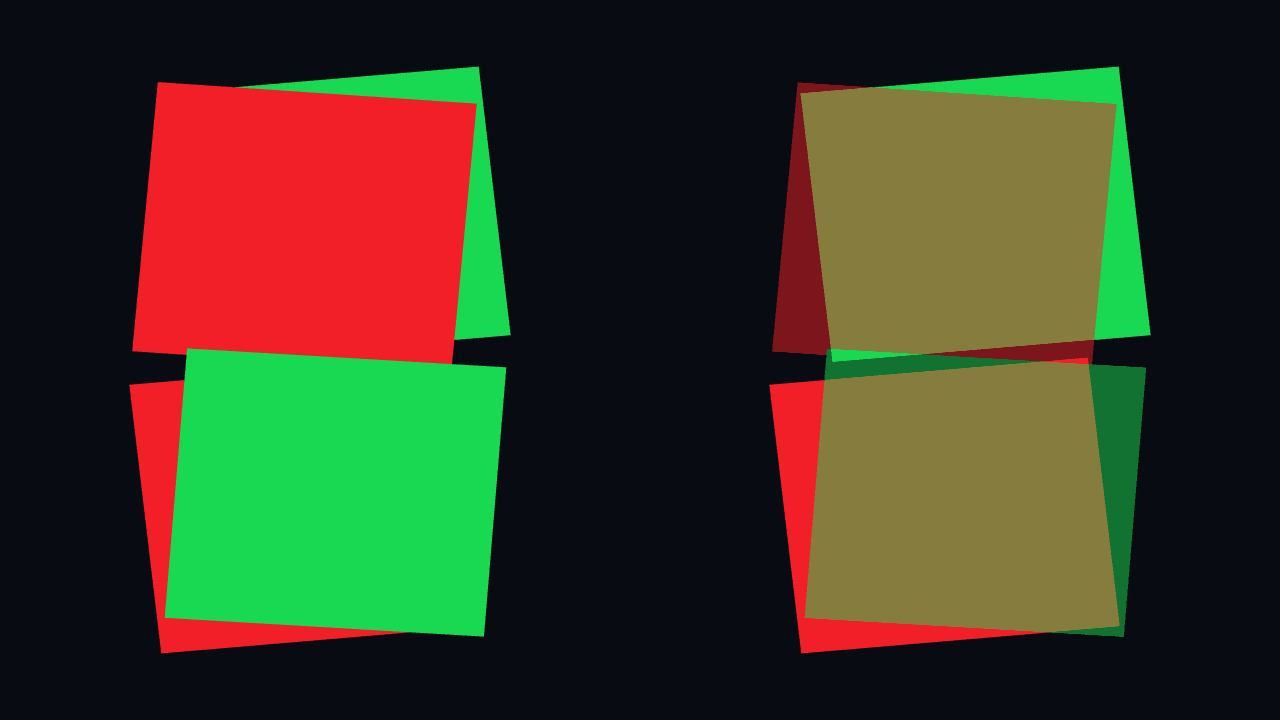
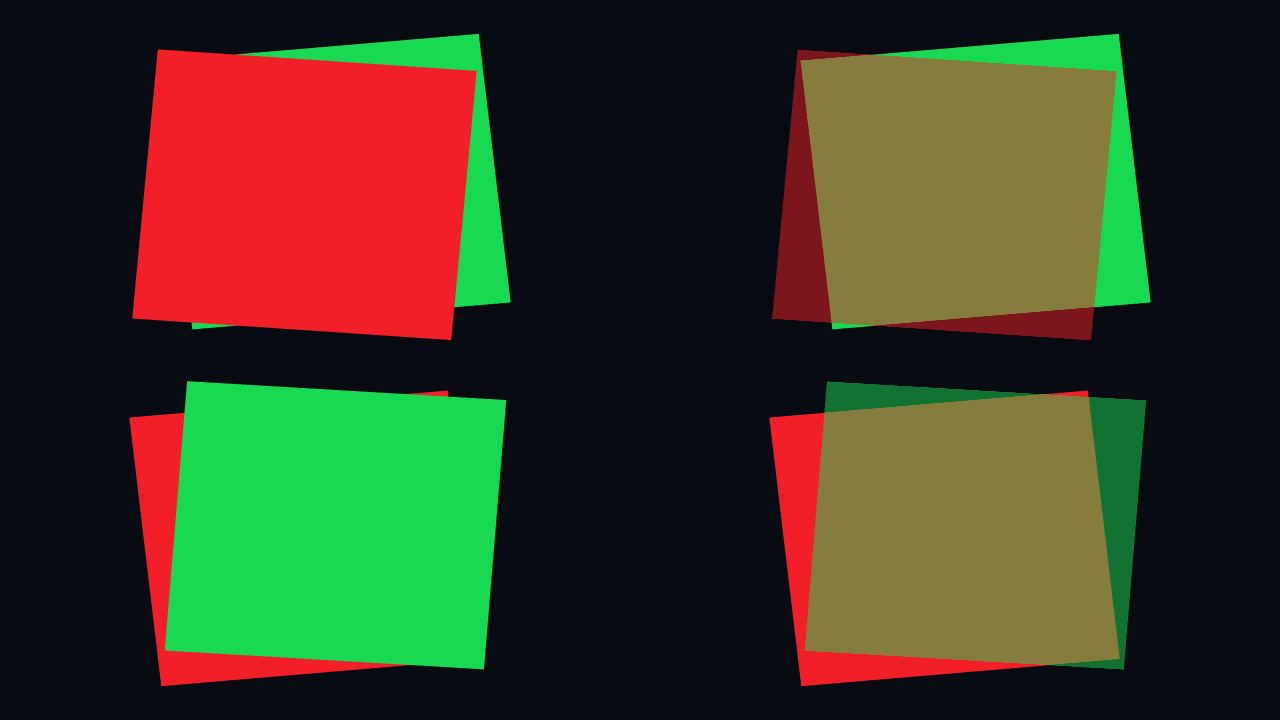
More fixes

Changed region(s): [[0.5938, 0.0306, 0.9062, 0.9778], [0.0938, 0.0306, 0.4062, 0.9778]]

diff --git a/tests/shared/compare-core.ts b/tests/shared/compare-core.ts
@@ -48,13 +48,6 @@ export interface RegionResult extends CompareResult {
     regionPixels: number;
 }
 
-export interface CompareRect {
-    readonly x: number;
-    readonly y: number;
-    readonly width: number;
-    readonly height: number;
-}
-
 /** Parse a PNG file into {width, height, data: Uint8Array (RGBA)} */
 function loadPng(path: string): { width: number; height: number; data: Uint8Array } {
     const buf = fs.readFileSync(path);
@@ -106,68 +99,6 @@ export function compareImages(actualPath: string, referencePath: string): Compar
         mad: sumDiff / total,
         maxDiff,
     };
-}
-
-/** Compare one or more rectangular image regions. Throws when clipped regions overlap. */
-export function compareImageRects(actualPath: string, referencePath: string, rects: readonly CompareRect[]): CompareResult {
-    const actual = loadPng(actualPath);
-    const ref = loadPng(referencePath);
-    const w = Math.min(actual.width, ref.width);
-    const h = Math.min(actual.height, ref.height);
-
-    const clippedRects = rects.map((rect, index) => {
-        const clipped = {
-            x0: Math.max(0, Math.floor(rect.x)),
-            y0: Math.max(0, Math.floor(rect.y)),
-            x1: Math.min(w, Math.ceil(rect.x + rect.width)),
-            y1: Math.min(h, Math.ceil(rect.y + rect.height)),
-        };
-        if (clipped.x0 >= clipped.x1 || clipped.y0 >= clipped.y1) {
-            throw new Error(`compareImageRects: rectangle ${index} selects no pixels`);
-        }
-        return clipped;
-    });
-    for (let left = 0; left < clippedRects.length; left++) {
-        for (let right = left + 1; right < clippedRects.length; right++) {
-            const a = clippedRects[left]!;
-            const b = clippedRects[right]!;
-            if (Math.max(a.x0, b.x0) < Math.min(a.x1, b.x1) && Math.max(a.y0, b.y0) < Math.min(a.y1, b.y1)) {
-                throw new Error(`compareImageRects: rectangles ${left} and ${right} overlap`);
-            }
-        }
-    }
-
-    let exactMatch = 0;
-    let within1 = 0;
-    let within3 = 0;
-    let within5 = 0;
-    let sumDiff = 0;
-    let maxDiff = 0;
-    let totalPixels = 0;
-
-    for (const rect of clippedRects) {
-        for (let y = rect.y0; y < rect.y1; y++) {
-            for (let x = rect.x0; x < rect.x1; x++) {
-                const ai = (y * actual.width + x) * 4;
-                const ri = (y * ref.width + x) * 4;
-                let pixMax = 0;
-                let pixSum = 0;
-                for (let c = 0; c < 3; c++) {
-                    const d = Math.abs(actual.data[ai + c]! - ref.data[ri + c]!);
-                    pixSum += d;
-                    pixMax = Math.max(pixMax, d);
-                }
-                sumDiff += pixSum / 3;
-                maxDiff = Math.max(maxDiff, pixMax);
-                if (pixMax === 0) exactMatch++;
-                if (pixMax <= 1) within1++;
-                if (pixMax <= 3) within3++;
-                if (pixMax <= 5) within5++;
-                totalPixels++;
-            }
-        }
-    }
-    return { totalPixels, exactMatch, within1, within3, within5, mad: sumDiff / totalPixels, maxDiff };
 }
 
 /**

diff --git a/tests/gl/parity/gl-parity.spec.ts b/tests/gl/parity/gl-parity.spec.ts
@@ -17,17 +17,10 @@
  */
 import { test, expect } from "../../shared/reuse-fixtures";
 import * as path from "path";
-import { attachCompareArtifacts, captureGolden, compareImageRects, compareImages, getSceneConfig, loadSceneConfigAll } from "./compare-utils";
+import { attachCompareArtifacts, captureGolden, compareImages, getSceneConfig, loadSceneConfigAll } from "./compare-utils";
 
 /** Fixed freeze time used for every GL parity capture (lite + reference). */
 const SEEK_TIME = 1.5;
-const A2C_MAX_INTERIOR_CHANNEL_DIFF = 1;
-const A2C_STABLE_INTERIOR_RECTS = [
-    { x: 272, y: 172, width: 96, height: 96 },
-    { x: 272, y: 452, width: 96, height: 96 },
-    { x: 912, y: 172, width: 96, height: 96 },
-    { x: 912, y: 452, width: 96, height: 96 },
-] as const;
 
 for (const entry of loadSceneConfigAll()) {
     const sceneConfig = getSceneConfig(entry.id);
@@ -56,18 +49,13 @@ for (const entry of loadSceneConfigAll()) {
             await page.locator("canvas").screenshot({ path: screenshotPath });
 
             const full = compareImages(screenshotPath, goldenRef);
-            const compared = entry.id === 17 ? compareImageRects(screenshotPath, goldenRef, A2C_STABLE_INTERIOR_RECTS) : full;
             await attachCompareArtifacts(testInfo, screenshotPath, goldenRef, referenceDir);
-            const within1Pct = ((compared.within1 / compared.totalPixels) * 100).toFixed(2);
+            const within1Pct = ((full.within1 / full.totalPixels) * 100).toFixed(2);
             console.log(
-                `GL Scene ${entry.id} (${sceneConfig.slug}) — ${entry.id === 17 ? `full MAD=${full.mad.toFixed(4)} (informational) | stable interior MAD=${compared.mad.toFixed(4)} (informational) | maxDiff=${compared.maxDiff} (max ${A2C_MAX_INTERIOR_CHANNEL_DIFF})` : `MAD=${compared.mad.toFixed(4)} (max ${sceneConfig.maxMad}) | maxDiff=${compared.maxDiff}`} | within1=${within1Pct}% | ${compared.totalPixels}px`
+                `GL Scene ${entry.id} (${sceneConfig.slug}) — MAD=${full.mad.toFixed(4)} (max ${sceneConfig.maxMad}) | maxDiff=${full.maxDiff} | within1=${within1Pct}% | ${full.totalPixels}px`
             );
 
-            if (entry.id === 17) {
-                expect(compared.maxDiff, `Stable interior channel difference should be ≤ ${A2C_MAX_INTERIOR_CHANNEL_DIFF}`).toBeLessThanOrEqual(A2C_MAX_INTERIOR_CHANNEL_DIFF);
-            } else {
-                expect(compared.mad, `Full image MAD should be ≤ ${sceneConfig.maxMad}`).toBeLessThanOrEqual(sceneConfig.maxMad);
-            }
+            expect(full.mad, `Full image MAD should be ≤ ${sceneConfig.maxMad}`).toBeLessThanOrEqual(sceneConfig.maxMad);
         });
     });
 }

diff --git a/tests/lite/parity/scenes/scene268-alpha-to-coverage.spec.ts b/tests/lite/parity/scenes/scene268-alpha-to-coverage.spec.ts
@@ -1,17 +1,10 @@
 import { test, expect } from "../parity-fixtures";
 import * as path from "path";
-import { attachCompareArtifacts, captureGolden, compareImageRects, compareImages, getSceneConfig } from "../compare-utils";
+import { attachCompareArtifacts, captureGolden, compareImages, getSceneConfig } from "../compare-utils";
 
 const sceneConfig = getSceneConfig(268);
 const REFERENCE_DIR = path.resolve(__dirname, "../../../../reference/lite/scene268-alpha-to-coverage");
 const GOLDEN_REF = path.join(REFERENCE_DIR, "babylon-ref-golden.png");
-const MAX_INTERIOR_CHANNEL_DIFF = 1;
-const STABLE_INTERIOR_RECTS = [
-    { x: 272, y: 172, width: 96, height: 96 },
-    { x: 272, y: 452, width: 96, height: 96 },
-    { x: 912, y: 172, width: 96, height: 96 },
-    { x: 912, y: 452, width: 96, height: 96 },
-] as const;
 
 test.skip(!!sceneConfig.skipParity, "Scene 268 skipped via skipParity in scene-config.json");
 
@@ -28,10 +21,7 @@ test("Scene 268 — alpha-to-coverage matches Babylon.js WebGPU", async ({ page 
     await page.locator("canvas").screenshot({ path: screenshotPath });
 
     const full = compareImages(screenshotPath, GOLDEN_REF);
-    const interior = compareImageRects(screenshotPath, GOLDEN_REF, STABLE_INTERIOR_RECTS);
     await attachCompareArtifacts(testInfo, screenshotPath, GOLDEN_REF, REFERENCE_DIR);
-    console.log(
-        `Alpha-to-coverage full image MAD: ${full.mad.toFixed(3)} (informational); stable interior MAD: ${interior.mad.toFixed(3)} (informational); maxDiff: ${interior.maxDiff} (limit ${MAX_INTERIOR_CHANNEL_DIFF})`
-    );
-    expect(interior.maxDiff, `Stable interior channel difference should be <= ${MAX_INTERIOR_CHANNEL_DIFF}`).toBeLessThanOrEqual(MAX_INTERIOR_CHANNEL_DIFF);
+    console.log(`Alpha-to-coverage full image MAD: ${full.mad.toFixed(3)} (limit ${sceneConfig.maxMad})`);
+    expect(full.mad, `Full image MAD should be <= ${sceneConfig.maxMad}`).toBeLessThanOrEqual(sceneConfig.maxMad);
 });

diff --git a/lab/lite/src/lite/scene268.ts b/lab/lite/src/lite/scene268.ts
@@ -29,9 +29,13 @@ const FRAGMENT_SOURCE = `@fragment fn mainFragment()->@location(0) vec4<f32>{ret
 
 const RED: readonly [number, number, number] = [0.95, 0.12, 0.16];
 const GREEN: readonly [number, number, number] = [0.1, 0.85, 0.32];
+// Rows sit far enough apart that no card ever overlaps a card from the other row. Cross-row overlap
+// would land on identical depth values, and a depth tie resolves differently under reverse-Z
+// "greater-equal" (WebGPU) than under strict LESS (WebGL2) — diverging the backends for reasons that
+// have nothing to do with alpha-to-coverage.
 const ROWS = [
-    { y: 0.85, redInFront: true, redRotation: -0.08, greenRotation: 0.1 },
-    { y: -0.85, redInFront: false, redRotation: 0.1, greenRotation: -0.07 },
+    { y: 1.05, redInFront: true, redRotation: -0.08, greenRotation: 0.1 },
+    { y: -1.05, redInFront: false, redRotation: 0.1, greenRotation: -0.07 },
 ] as const;
 
 function createCardMaterial(center: readonly [number, number], rotation: number, depth: number, color: readonly [number, number, number], opacity: number): ShaderMaterial {

diff --git a/lab/gl/src/scene17.ts b/lab/gl/src/scene17.ts
@@ -29,9 +29,13 @@ const QUAD = new Float32Array([-0.5, -0.5, 0.5, -0.5, 0.5, 0.5, -0.5, 0.5]);
 const INDICES = new Uint16Array([0, 1, 2, 0, 2, 3]);
 const RED: readonly [number, number, number] = [0.95, 0.12, 0.16];
 const GREEN: readonly [number, number, number] = [0.1, 0.85, 0.32];
+// Rows sit far enough apart that no card ever overlaps a card from the other row. Cross-row overlap
+// would land on identical depth values, and a depth tie resolves differently under reverse-Z
+// "greater-equal" (WebGPU) than under strict LESS (WebGL2) — diverging the backends for reasons that
+// have nothing to do with alpha-to-coverage.
 const ROWS = [
-    { y: 0.85, redInFront: true, redRotation: -0.08, greenRotation: 0.1 },
-    { y: -0.85, redInFront: false, redRotation: 0.1, greenRotation: -0.07 },
+    { y: 1.05, redInFront: true, redRotation: -0.08, greenRotation: 0.1 },
+    { y: -1.05, redInFront: false, redRotation: 0.1, greenRotation: -0.07 },
 ] as const;
 
 const VERTEX_SHADER = `#version 300 es

diff --git a/tests/gl/parity/compare-utils.ts b/tests/gl/parity/compare-utils.ts
@@ -10,8 +10,8 @@ import type { Browser } from "@playwright/test";
 import { captureGolden as captureGoldenCore, shouldSkipParity, type SceneConfig, type CaptureGoldenOptions } from "../../shared/compare-core";
 
 // Re-export the experience-agnostic comparison surface unchanged.
-export { compareImages, compareImageRects, compareRegion, generateDiffMap, attachCompareArtifacts, shouldSkipParity, waitForCanvasReady } from "../../shared/compare-core";
-export type { SceneConfig, CompareRect, CompareResult, RegionResult, CaptureGoldenOptions } from "../../shared/compare-core";
+export { compareImages, compareRegion, generateDiffMap, attachCompareArtifacts, shouldSkipParity, waitForCanvasReady } from "../../shared/compare-core";
+export type { SceneConfig, CompareResult, RegionResult, CaptureGoldenOptions } from "../../shared/compare-core";
 
 let _sceneConfigCache: SceneConfig[] | null = null;
 

diff --git a/tests/lite/parity/compare-utils.ts b/tests/lite/parity/compare-utils.ts
@@ -11,8 +11,8 @@ import type { Browser } from "@playwright/test";
 import { captureGolden as captureGoldenCore, shouldSkipParity, type SceneConfig, type CaptureGoldenOptions } from "../../shared/compare-core";
 
 // Re-export the experience-agnostic comparison surface unchanged.
-export { compareImages, compareImageRects, compareRegion, generateDiffMap, attachCompareArtifacts, shouldSkipParity, waitForCanvasReady } from "../../shared/compare-core";
-export type { SceneConfig, CompareRect, CompareResult, RegionResult, CaptureGoldenOptions } from "../../shared/compare-core";
+export { compareImages, compareRegion, generateDiffMap, attachCompareArtifacts, shouldSkipParity, waitForCanvasReady } from "../../shared/compare-core";
+export type { SceneConfig, CompareResult, RegionResult, CaptureGoldenOptions } from "../../shared/compare-core";
 
 let _sceneConfigCache: SceneConfig[] | null = null;
 

diff --git a/lab/gl/src/babylon-ref-scene17.ts b/lab/gl/src/babylon-ref-scene17.ts
@@ -8,9 +8,11 @@ const QUAD = new Float32Array([-0.5, -0.5, 0.5, -0.5, 0.5, 0.5, -0.5, 0.5]);
 const INDICES = new Uint16Array([0, 1, 2, 0, 2, 3]);
 const RED: readonly [number, number, number] = [0.95, 0.12, 0.16];
 const GREEN: readonly [number, number, number] = [0.1, 0.85, 0.32];
+// Must match lab/gl/src/scene17.ts: rows are separated so no cross-row card overlap exists, because a
+// depth tie resolves differently under reverse-Z "greater-equal" (WebGPU) than under strict LESS.
 const ROWS = [
-    { y: 0.85, redInFront: true, redRotation: -0.08, greenRotation: 0.1 },
-    { y: -0.85, redInFront: false, redRotation: 0.1, greenRotation: -0.07 },
+    { y: 1.05, redInFront: true, redRotation: -0.08, greenRotation: 0.1 },
+    { y: -1.05, redInFront: false, redRotation: 0.1, greenRotation: -0.07 },
 ] as const;
 
 const VERTEX_SHADER = `

diff --git a/lab/lite/src/bjs/scene268.ts b/lab/lite/src/bjs/scene268.ts
@@ -49,9 +49,11 @@ void main(void) {
 
 const RED = new Color3(0.95, 0.12, 0.16);
 const GREEN = new Color3(0.1, 0.85, 0.32);
+// Must match lab/lite/src/lite/scene268.ts: rows are separated so no cross-row card overlap exists,
+// because a depth tie resolves differently under reverse-Z "greater-equal" than under strict LESS.
 const ROWS = [
-    { y: 0.85, redInFront: true, redRotation: -0.08, greenRotation: 0.1 },
-    { y: -0.85, redInFront: false, redRotation: 0.1, greenRotation: -0.07 },
+    { y: 1.05, redInFront: true, redRotation: -0.08, greenRotation: 0.1 },
+    { y: -1.05, redInFront: false, redRotation: 0.1, greenRotation: -0.07 },
 ] as const;
 
 function createCardMaterial(scene: Scene, center: Vector2, rotation: number, depth: number, color: Color3, opacity: number): ShaderMaterial {

diff --git a/docs/lite/architecture/51-alpha-to-coverage.md b/docs/lite/architecture/51-alpha-to-coverage.md
@@ -139,7 +139,7 @@ The per-owner API is intentional: WebGPU alpha-to-coverage is pipeline state, wh
 4. Focused pipeline tests verify depth-writing text/Sprite2D/cutout-billboard variants enable A2C, omit blending, and remain disabled at 1x or without depth writes.
 5. Scene 53 exercises an A2C depth-writing Sprite2D layer on real WebGPU; its hard-alpha atlas remains pixel-identical to the Babylon.js SpriteManager oracle.
 6. Scene 57 exercises A2C cutout billboards on real WebGPU; its hard-alpha atlas remains pixel-identical to the Babylon.js alpha-test oracle.
-7. Scene 268 renders red/green overlap with A2C off and on. Four 96×96 interior patches permit at most one channel-value difference from the Babylon.js WebGPU golden; full-image MAD remains informational because raster-edge sample patterns are backend-dependent.
+7. Scene 268 renders red/green overlap with A2C off and on, and is compared against the Babylon.js WebGPU golden with the standard full-image MAD gate. The two demo rows are separated so no card overlaps a card from the other row: cross-row overlap would produce identical depth values, and a depth tie resolves differently under reverse-Z `greater-equal` than under strict `LESS`, which would desynchronize the WebGPU and WebGL2 scenes for reasons unrelated to alpha-to-coverage.
 8. Rebuilding existing Shader, Standard, PBR, text, and sprite scenes that do not import A2C must preserve their measured production runtime sizes.
 
 ## File Manifest

diff --git a/docs/gl/architecture/01-alpha-to-coverage.md b/docs/gl/architecture/01-alpha-to-coverage.md
@@ -96,7 +96,7 @@ unseen engine (reported false)
 2. Tests assert lost/disposed safety and reapplication after context restoration.
 3. Tests assert `gl.SAMPLES` normalization (`0 -> 1`, `4 -> 4`).
 4. Tests assert `wipeGLStateCache` invalidates the optional applied-state cache.
-5. GL Scene 17 renders matching red/green overlap panels with A2C disabled/enabled. Four stable interior patches permit at most one channel-value difference from the ThinEngine golden; full-image MAD is informational because raster-edge sample patterns differ by backend.
+5. GL Scene 17 renders matching red/green overlap panels with A2C disabled/enabled and is compared against the ThinEngine golden with the standard full-image MAD gate. Its rows are separated exactly like WebGPU Scene 268 so no cross-row card overlap can create a depth tie, which strict `LESS` and reverse-Z `greater-equal` would otherwise resolve to different winners.
 6. Existing GL scenes remain below unchanged size ceilings; the feature module appears only in Scene 17's bundle.
 
 ## File Manifest
